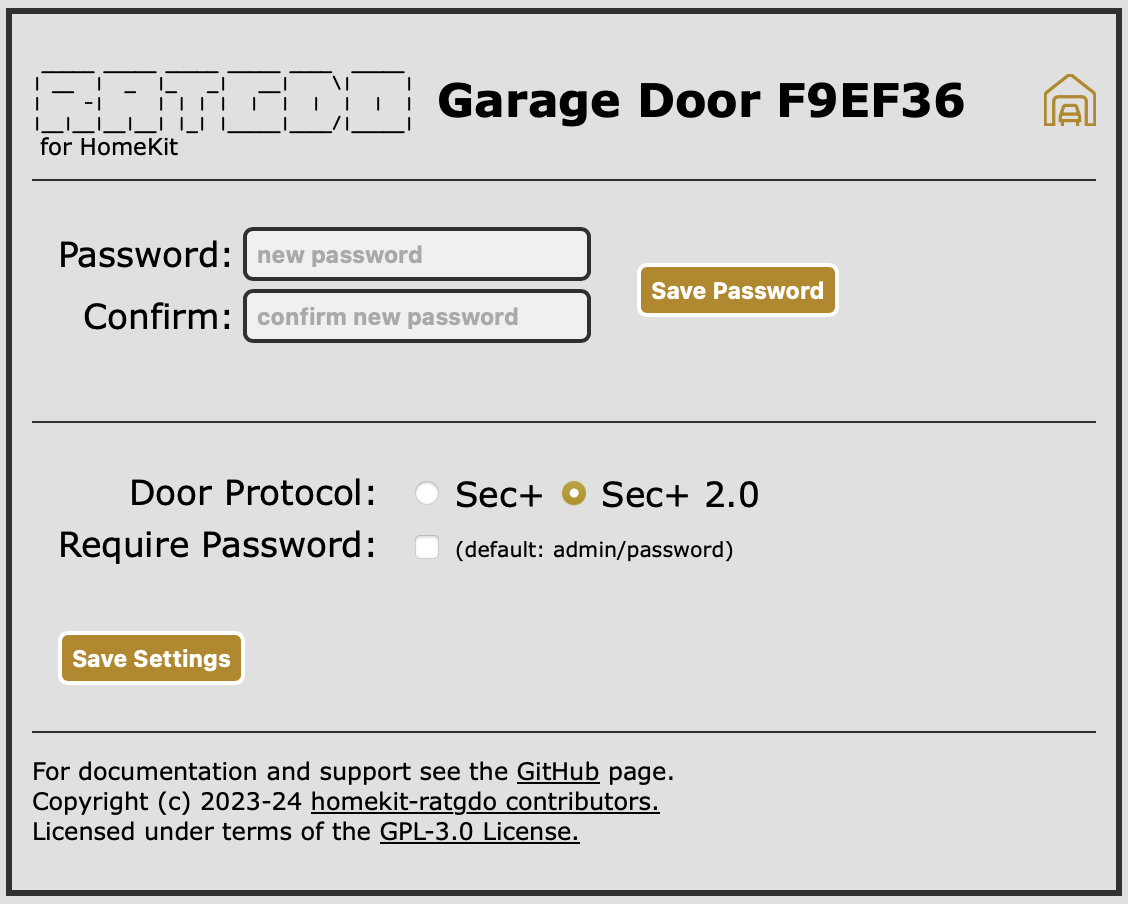
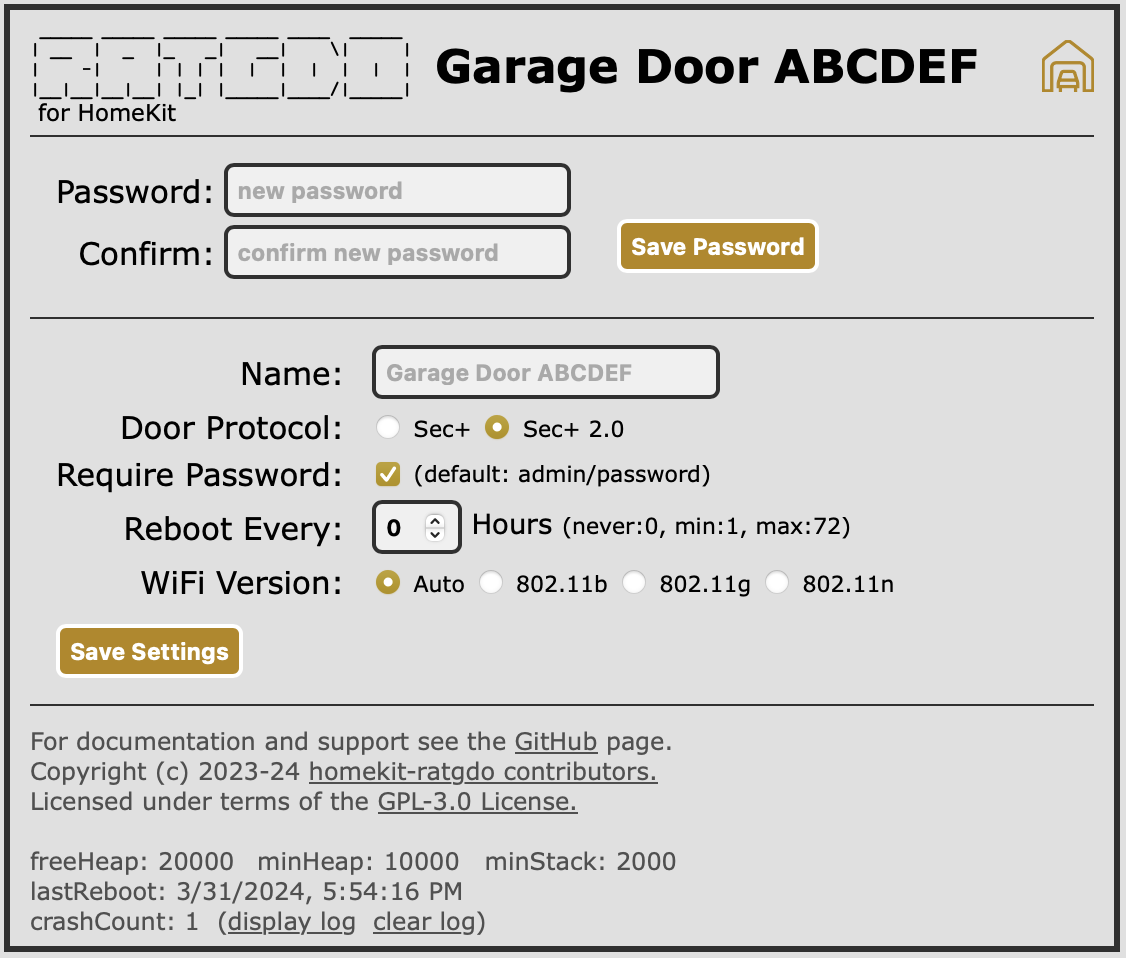
README updates

Changed region(s): [[0.0, 0.0, 0.9947, 1.0]]

diff --git a/README.md b/README.md
@@ -5,7 +5,7 @@ over your _local network_ using HomeKit, or over the internet using your Apple H
 control your garage door opener. It requires no supporting infrastructure such as Home Assistant,
 Homebridge, MQTT, etc, and connects to your garage door opener with as few as three wires.
 
-This firmware supports only Security+ 2.0-enabled garage door openers and RATGDO v2.5-series
+This firmware supports Security+ and Security+ 2.0 enabled garage door openers and RATGDO v2.5-series
 ESP8266-based hardware.
 
 > [!IMPORTANT]
@@ -51,56 +51,94 @@ That's it!
 
 ## Using ratgdo Webpage
 
-In [v0.9.0](https://github.com/ratgdo/homekit-ratgdo/releases/tag/v0.9.0), an updated webpage was added.
+Before pairing to HomeKit / Apple Home you should open up the ratgdo webpage and configure basic settings.  Simply enter the local IP address of the ratgdo device to access the page. While this is optional, it is a good idea to set a more appropriate device name and check that your door protocol is correct.
 
 [![webpage](docs/webpage/webpage.png)](#webpage)
 
-### How to secure webpage?
+The webpage comprises three sections, HomeKit and ratgdo device status, garage door opener status, and an information and diagnostic section.
 
-Since the [first release](https://github.com/ratgdo/homekit-ratgdo/releases/tag/v0.9.0) of the new webpage, in [v0.11.0](https://github.com/ratgdo/homekit-ratgdo/releases/tag/v0.11.0) a login was added to protect the wepage.  By default authentication is not required, but it is strongly recommended that you enable the setting to require a password and change the default.
+### HomeKit and ratgdo status
+
+If you ratgdo device is not yet paired to HomeKit then a QR code is displayed for you to scan and add the garage door to HomeKit. If the device is already paired then this is replaced with a statement that you must first un-pair the device.  A Reset or Un-pair HomeKit button is provided for this.  Note: if you will repair to the same HomeKit home you must also delete the accessory from HomeKit as well as un-pairing at the ratgdo device.
+
+This section also displays the current firmware version, with a statement on whether an update is available, the uptime of the device in days/hours/minutes/seconds and WiFi connection status.
+
+### Garage door opener status
+
+Status of the garage door along with action buttons are shown in this section.  The status values are updated in real time whether triggered by one of the action buttons or an external action (motion in the garage, someone using a door remote).
+
+### Information section
+
+The final section provides useful links to documentation and legal/license information.  At the very bottom of the page is diagnostic information, see Troubleshooting section below.
+
+### Authentication
+
+By default authentication is not required for any action on this web page.  However it is strongly recommended that you enable the setting to require a password and change the default. If authentication is enabled then all buttons _except_ Reboot and entering the settings page are protected with a username and password
 
 #### Default Username/Password: `admin`/`password`
+
+> [!NOTE]
+> The device uses _Digest Authentication_ supported in all web browsers, this is not cryptographically secure but is sufficient to protect against unauthorized or inadvertant access. Note that web browsers remember the username and password for a period of time so you will not be prompted to authenticate for every access.
 
 You can change the default password by clicking into the settings gear:
 
 [![settings](docs/webpage/settings.png)](#settings)
 
-and input a new password. Saving a new password will return you to the main webpage.
+## Settings Webpage
+
 [![password](docs/webpage/password.png)](#password)
 
-On this page you can also select the garage door protocol, either Sec+ or Sec+ 2.0 (default) and whether a userid/password is required.  Saving these settings will cause the ratgdo device to restart and return to the main webpage. 
+The settings page allows you to input a new password (but username cannot be changed, it is always _admin_). Saving a new password will return you to the main webpage from which point you will have to authenticate with the new password to access the settings page or any of the action buttons (except for reboot).
+
+If you save any settings from this page the ratgdo device will reboot and after a 30-second countdown you will return to the main webpage.
+
+### Name
+
+This updates the name reported to HomeKit and for mDNS device discovery.  The default name is _Garage Door ABCDEF_ where the last 6 characters are set to the MAC address of the ratgdo device. Changing the name after pairing with HomeKit does not change the name within HomeKit or Apple Home.
+
+### Door Protocol
+
+Set the protocol for your model of garage door opener.  This defaults to Security+ 2.0 and you should only change this if necessary.
+
+### Require Password
+
+If selected then all the action buttons _except reboot_, and access to the settings page, will require authentication.  Default is not required.
+
+### Reboot Every
+
+During early devlopment there were several reports that the ratgdo device would reset itself and loose its pairing with HomeKit. To reduce the chance of this occuring a regular (e.g. daily) reboot of the device provided a work-around. The firmware is far more stable now and it is hoped that this is no longer required. This setting may be removed in future versions.
+
+### WiFi Version
+
+If the device faile to connect reliably and consistently to your WiFi network it may help to lock it to a specific WiFi version. The ratgdo supports 802.11b, 802.11g and 802.11n on the 2.4GHz WiFi band and by default will auto-select. If it helps in your network, select the specific version you wish to use.  Note: If you select a version that your network does not support then the ratgdo will revert to auto-select and reboot itself after 30 seconds. 
 
 ## How do I upgrade?
 
-In [v0.8.0](https://github.com/ratgdo/homekit-ratgdo/releases/tag/v0.8.0), Over-the-Air (OTA) updates were added. Follow the steps below to update:
+Over-the-Air (OTA) updates are supported, either directly from GitHub or by selecting a firmware binary file on your computer. Follow the steps below to update:
 
-With [v0.11.0](https://github.com/ratgdo/homekit-ratgdo/releases/tag/v0.11.0) a second option was added to upgrade directly from Github.
-You can either
-- Update from Github
-    - To check for updates, click `Check for update`
-    - If update is available, Click `Update`
+* Navigate to your ratgdo's ip address where you will see the devices webpage, Click `Firmware Update`
+* Update from Github
+  * To check for updates, click `Check for update`
+  * If update is available, Click `Update`
 [![ota](docs/ota/ota.png)](#ota)
-- Update from local file
-    - Download the latest release, by download the `.bin` file on the [latest release](https://github.com/ratgdo/homekit-ratgdo/releases)
+* Update from local file
+  * Download the latest release, by download the `.bin` file on the [latest release](https://github.com/ratgdo/homekit-ratgdo/releases)
 [![firmware](docs/ota/firmware.png)](#firmware)
-    - Navigate to your ratgdo's ip address where you will see the devices webpage, Click `Firmware Update`
-[![webpage](docs/webpage/webpage.png)](#webpage)
-    - Upload the firmware that was downloaded in step 1, by clicking `Choose File` under `Update from local file`.
+  * Upload the firmware that was downloaded in step 1, by clicking `Choose File` under `Update from local file`.
 [![ota](docs/ota/ota.png)](#ota)
-    - Click `Update` to proceed with upgrading
+  * Click `Update` to proceed with upgrading
 [![uploaded](docs/ota/uploaded.png)](#uploaded)
-    - Once the update is Successful, ratgdo will now Reboot
-    - After a firmware update, you _may_ have to go through the process of re-pairing your device to HomeKit.  If your device is showing up as unresponsive in HomeKit, please try un-pairing, reboot, and re-pairing.
+  * Once the update is Successful, ratgdo will now Reboot
+  * After a firmware update, you _may_ have to go through the process of re-pairing your device to HomeKit.  If your device is showing up as unresponsive in HomeKit, please try un-pairing, reboot, and re-pairing.
 
-Automatic updates are not supported (and probably will never be), so set a reminder to check back
-again in the future.
+Automatic updates are not supported (and probably will never be), so set a reminder to check back again in the future.
 
 ## Help! aka the FAQs
 
 ### How can I tell if the ratgdo is paired to HomeKit?
 
 Use the [online browser-based flash tool](https://ratgdo.github.io/homekit-ratgdo/flash.html), and follow the
-"Visit Device" link. If you see a big QR code, the ratgdo is *not* paired.
+"Visit Device" link. If you see a big QR code, the ratgdo is _not_ paired.
 
 ### I added my garage door in the Home app but can't find it
 
@@ -109,6 +147,7 @@ find it, you can try un-pairing and re-pairing the device, paying close attentio
 select after adding it.
 
 ### Unable to Pair
+
 > I get a message [Unable to Add Accessory: The setup code is incorrect.](https://github.com/ratgdo/homekit-ratgdo/issues/97)
 
 We have had a number of users that have encountered this error that was a result of running HomeBrdige with the Bounjour-HAP mDNS backend. You can find
@@ -137,6 +176,22 @@ Please also feel free to open a [GitHub Issue](https://github.com/ratgdo/homekit
 you don't already see your concern listed. Don't forget to check the [closed
 issues](https://github.com/ratgdo/homekit-ratgdo/issues?q=is%3Aissue+is%3Aclosed) to see if someone
 has already found a fix.
+
+## Troubleshooting
+
+Great reliability improvements have been made in recent versions of the firmware, but it is possible that things can still go wrong. As noted above you should check that the door protocol is correctly set and if WiFi connection stability is suspected then you select a specific WiFi version.
+
+The footer of the webpage displays useful information that can help project contributors assist with diagnosing a problem. The ESP8266 is a low-memory device so monitoring actual memory usage is first place to start. Whenever you connect to the webpage, the firmware reports memory utilization every second... current available free heap, the lowest value that free heap has reached since last reboot, and the minimum available stack reached since last reboot.
+
+In addition the last reboot date and time is reported (calculated by subtracting up-time from current time). If the last reboot was caused by a system crash then an additonal line will display the number of times it crashed with options to display the crash log, and to clear the crash log.
+
+### Display log
+
+If this appears then please click on the link. A new browser tab will open with details of the crash. If you open an issue on GitHub then please copy/paste this into the issue.
+
+### Clear log
+
+Once you have made a copy of the crash log, you should clear it so there is sufficient space to capture future crashes. Clearing the log requires authentication (only if _require password_ selected) but will not reboot the device.
 
 ## How can I contribute?
 
@@ -167,9 +222,9 @@ This firmware was written by [Brandon Matthews](https://github.com/thenewwazoo),
 inspiration from the [esphome-ratgdo](https://github.com/ratgdo/esphome-ratgdo) project and critical
 dependence on the [secplus decoder library](https://github.com/argilo/secplus).
 
-Special credit goes to the Chamberlain Group, without whose irredeemably stupid decision to [close
-their API to third
-parties](https://chamberlaingroup.com/press/a-message-about-our-decision-to-prevent-unauthorized-usage-of-myq),
+Ongoing reliability improvements by [Jonathan Stroud](https://github.com/jgstroud/), and webpage design and implementation by [David Kerr](https://github.com/dkerr64)
+
+Special credit goes to the Chamberlain Group, without whose irredeemably stupid decision to [close their API to third parties](https://chamberlaingroup.com/press/a-message-about-our-decision-to-prevent-unauthorized-usage-of-myq),
 this firmware would never have been necessary.
 
 [Garage icons](https://www.flaticon.com/free-icons/garage) created by Creative Squad - Flaticon
